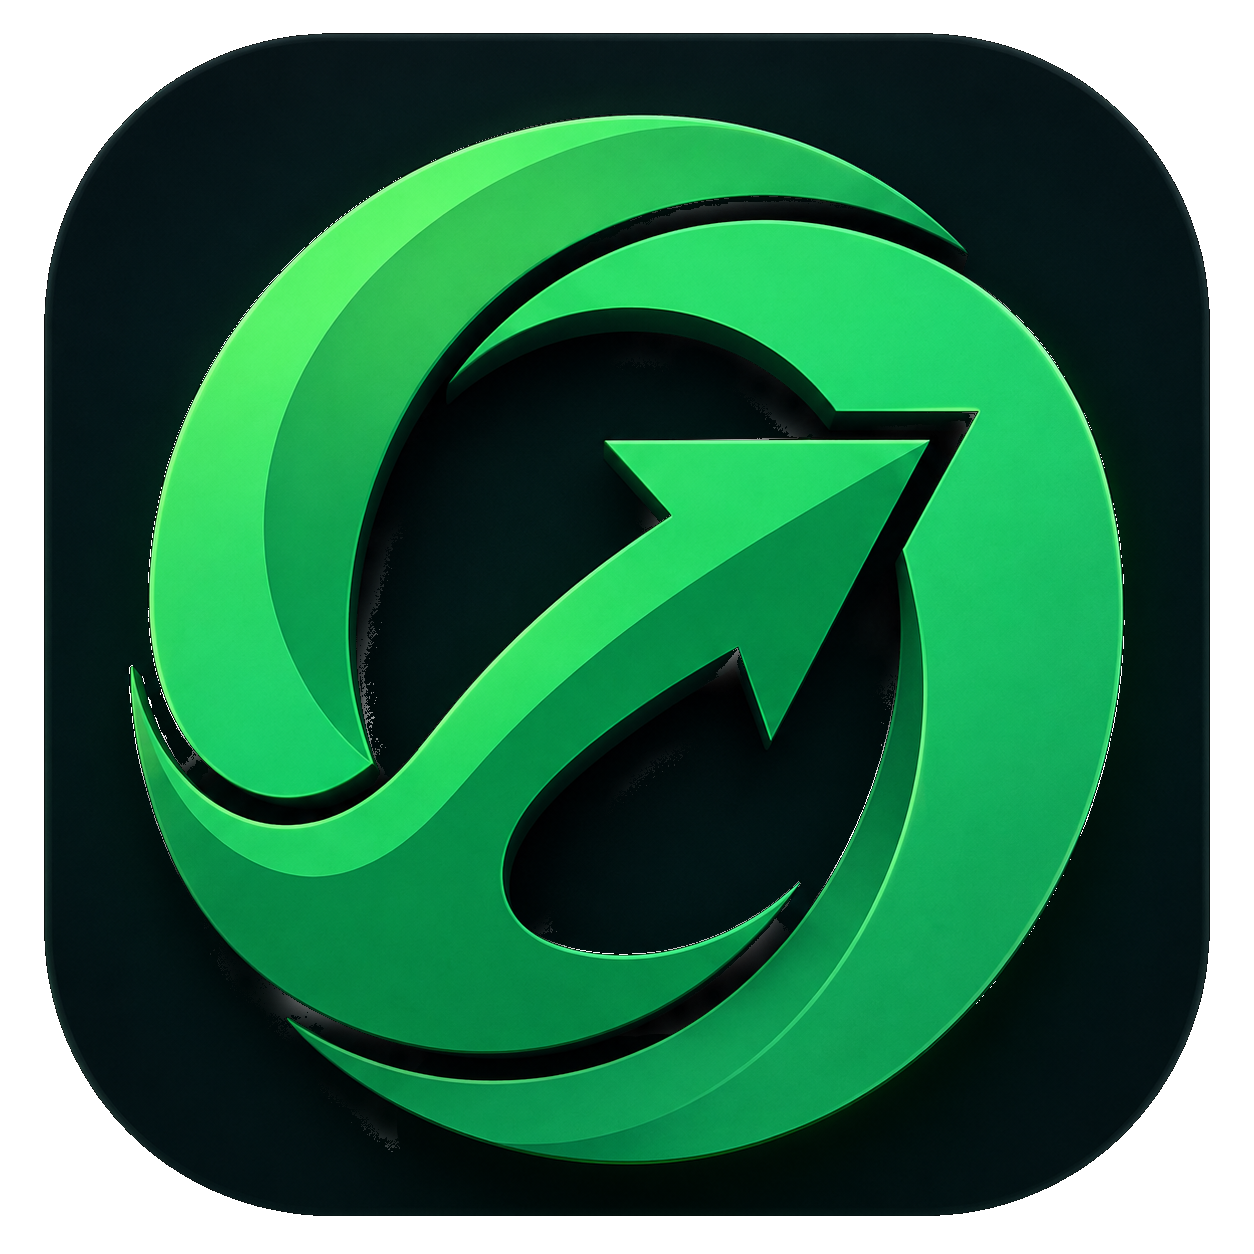
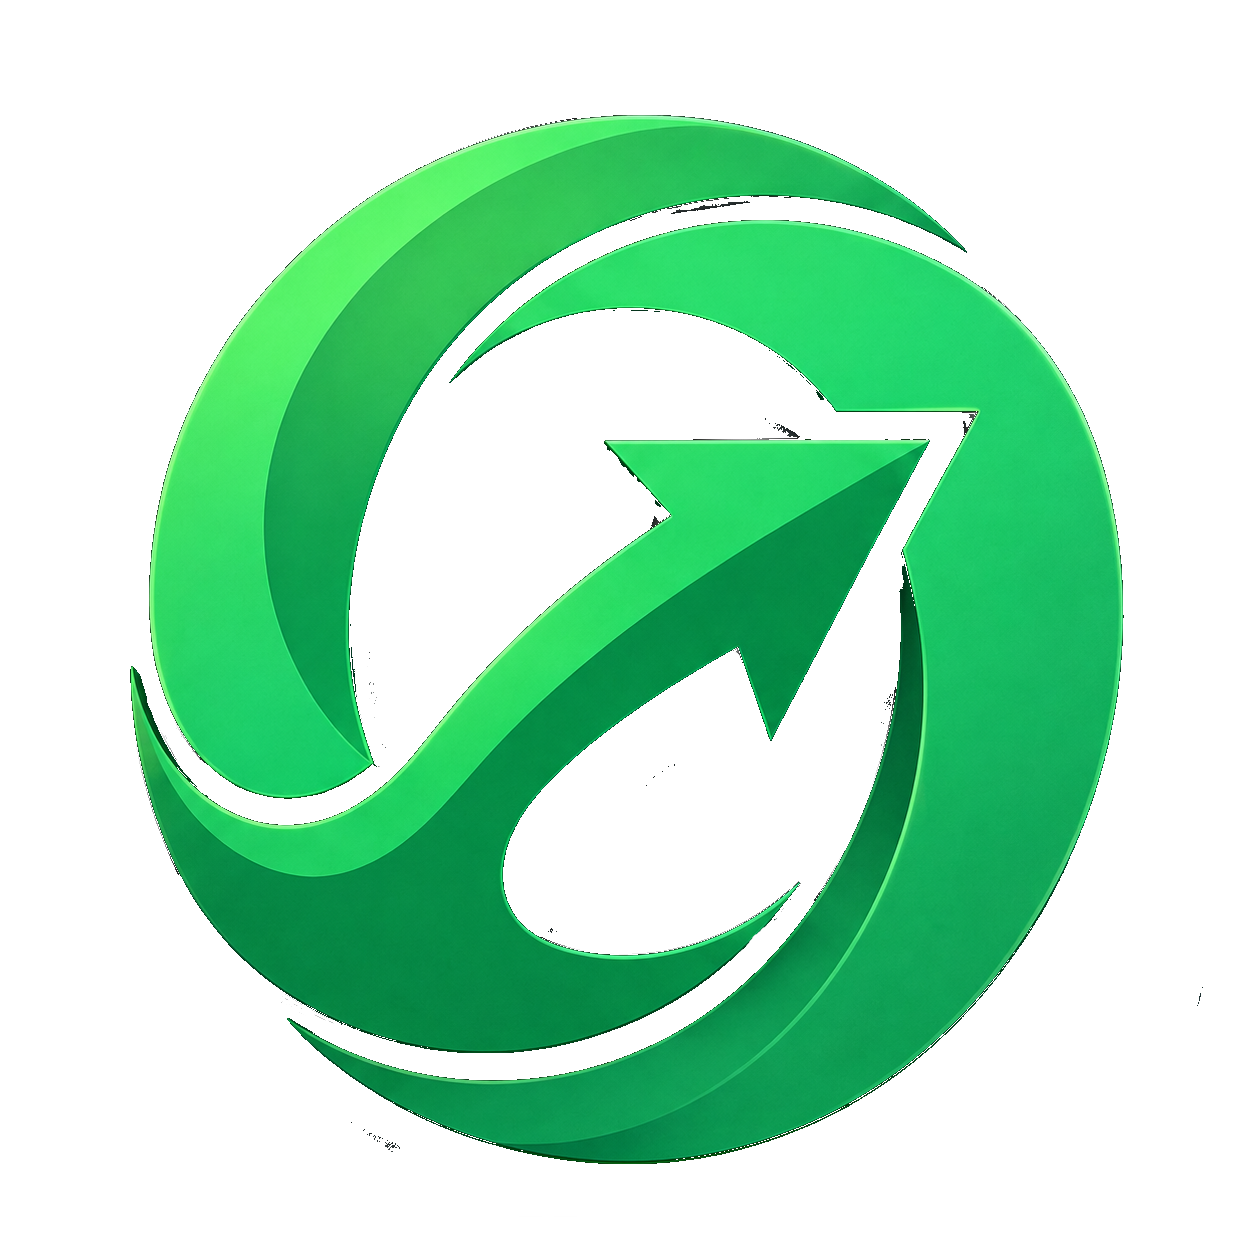
Release v7.7.00 stable with uninstaller theme support, gotTheLock crash fix, and correct email target

diff --git a/uninstaller/style.css b/uninstaller/style.css
@@ -195,3 +195,54 @@ textarea:focus {
     from { opacity: 0; transform: translateY(20px); filter: blur(10px); }
     to { opacity: 1; transform: translateY(0); filter: blur(0); }
 }
+
+/* Light Theme support */
+body[data-theme="light"] {
+    background: #f4f4f7;
+    background: radial-gradient(circle at 50% 50%, #ffffff 0%, #f4f4f7 100%);
+    color: #1a1a1a;
+}
+body[data-theme="light"] .survey-window {
+    background: #ffffff;
+    border-color: rgba(0, 0, 0, 0.08);
+    box-shadow: 0 10px 30px rgba(0, 0, 0, 0.06);
+}
+body[data-theme="light"] .header h2 {
+    background: linear-gradient(135deg, #111111 0%, #444444 100%);
+    -webkit-background-clip: text;
+    -webkit-text-fill-color: transparent;
+}
+body[data-theme="light"] .header p {
+    color: #555555;
+}
+body[data-theme="light"] .card-inner {
+    background: rgba(0, 0, 0, 0.02);
+    border-color: rgba(0, 0, 0, 0.05);
+    color: #555555;
+}
+body[data-theme="light"] .reason-card:hover .card-inner {
+    border-color: rgba(0, 0, 0, 0.15);
+    background: rgba(0, 0, 0, 0.04);
+}
+body[data-theme="light"] .reason-card input:checked + .card-inner {
+    background: var(--accent-color);
+    border-color: var(--accent-color);
+    color: #fff;
+}
+body[data-theme="light"] textarea {
+    background: rgba(0, 0, 0, 0.02);
+    border-color: rgba(0, 0, 0, 0.08);
+    color: #111111;
+}
+body[data-theme="light"] .btn-secondary {
+    background: rgba(0, 0, 0, 0.02);
+    color: #555555;
+    border-color: rgba(0, 0, 0, 0.08);
+}
+body[data-theme="light"] .btn-secondary:hover {
+    color: #111111;
+    border-color: rgba(0, 0, 0, 0.15);
+}
+body[data-theme="light"] .footer {
+    border-top-color: rgba(0, 0, 0, 0.08);
+}

diff --git a/uninstaller/script.js b/uninstaller/script.js
@@ -1,6 +1,23 @@
 // Using electronAPI from preload.js
 const ipc = window.electronAPI;
 
+function hexToRgb(hex) {
+    let r = 9, g = 240, b = 160;
+    if (hex && hex.startsWith('#')) {
+        const h = hex.substring(1);
+        if (h.length === 3) {
+            r = parseInt(h[0] + h[0], 16);
+            g = parseInt(h[1] + h[1], 16);
+            b = parseInt(h[2] + h[2], 16);
+        } else if (h.length === 6) {
+            r = parseInt(h.substring(0, 2), 16);
+            g = parseInt(h.substring(2, 4), 16);
+            b = parseInt(h.substring(4, 6), 16);
+        }
+    }
+    return `${r}, ${g}, ${b}`;
+}
+
 document.addEventListener('DOMContentLoaded', () => {
     const submitBtn = document.getElementById('submitBtn');
     const skipBtn = document.getElementById('skipBtn');
@@ -8,6 +25,20 @@ document.addEventListener('DOMContentLoaded', () => {
     const reasonInputs = document.querySelectorAll('input[name="reason"]');
 
     let selectedReason = null;
+
+    // Load Settings for Theme and Accent Syncing
+    if (ipc && ipc.getSettings) {
+        ipc.getSettings().then(s => {
+            if (s) {
+                const theme = s.themeMode || 'dark';
+                document.body.setAttribute('data-theme', theme);
+                const accent = s.accentColor || '#09f0a0';
+                document.documentElement.style.setProperty('--accent-color', accent);
+                document.documentElement.style.setProperty('--accent-glow', `rgba(${hexToRgb(accent)}, 0.25)`);
+                document.documentElement.style.setProperty('--accent-hover', accent);
+            }
+        }).catch(err => console.error("Error loading theme settings in uninstaller:", err));
+    }
 
     reasonInputs.forEach(input => {
         input.addEventListener('change', () => {
@@ -22,7 +53,7 @@ document.addEventListener('DOMContentLoaded', () => {
         submitBtn.innerHTML = "Processing...";
         
         const feedback = feedbackText.value || "No additional feedback.";
-        const email = "[email redacted]";
+        const email = "[email redacted]";
         const subject = encodeURIComponent("Ocal Browser - Uninstall Feedback");
         const body = encodeURIComponent(`Reason: ${selectedReason}\n\nFeedback: ${feedback}\n\nSent via Ocal Uninstaller`);
         

diff --git a/main.js b/main.js
@@ -108,6 +108,7 @@ if (process.argv.includes('--install') || process.argv.includes('--squirrel-inst
 
 if (!gotTheLock) {
     app.quit();
+    process.exit(0);
 } else {
     app.on('second-instance', (event, commandLine, workingDirectory) => {
         if (mainWindow) {
@@ -829,7 +830,7 @@ function createMainWindow() {
         height: 900,
         minWidth: 1000,
         minHeight: 700,
-        title: 'Ocal',
+        title: 'Ocal Browser',
         icon: path.join(__dirname, 'icon.ico'),
         frame: false,
         transparent: false,
@@ -913,10 +914,8 @@ function createMainWindow() {
         // Always open a tab on startup
         if (views.length === 0) {
             const startupUrl = getArgumentURL(process.argv);
-            if (userSettings.lastVersion !== '7.1.00') {
-                userSettings.lastVersion = '7.1.00';
-                saveSettings(userSettings);
-                createNewTab('ocal://whats-new');
+                if (userSettings.lastVersion !== '7.7.00') {
+                    userSettings.lastVersion = '7.7.00';
                 if (startupUrl) {
                     createNewTab(startupUrl);
                 }
@@ -2278,9 +2277,17 @@ function hideWebApp() {
     }
     webAppOpen = false;
     currentWebAppUrl = null;
-    if (webAppView && mainWindow) mainWindow.removeBrowserView(webAppView);
-    mainWindow.webContents.send('web-app-closed');
-    updateViewBounds();
+    if (webAppView && mainWindow && !mainWindow.isDestroyed()) {
+        if (mainWindow.getBrowserViews().includes(webAppView)) {
+            mainWindow.removeBrowserView(webAppView);
+        }
+    }
+    if (mainWindow && !mainWindow.isDestroyed() && mainWindow.webContents && !mainWindow.webContents.isDestroyed()) {
+        mainWindow.webContents.send('web-app-closed');
+    }
+    if (mainWindow && !mainWindow.isDestroyed()) {
+        updateViewBounds();
+    }
 }
 
 function showWebApp(url) {

diff --git a/forge.config.js b/forge.config.js
@@ -3,9 +3,17 @@ const { FuseV1Options, FuseVersion } = require('@electron/fuses');
 
 module.exports = {
   packagerConfig: {
+    appId: 'com.ocal.browser',
     name: 'Ocal Browser',
     asar: true,
-    icon: './icon.ico',
+    icon: './build/icon.ico',
+    win32metadata: {
+      CompanyName: 'Gaming Network Studio Media Group',
+      FileDescription: 'Ocal Browser',
+      ProductName: 'Ocal Browser',
+      InternalName: 'Ocal Browser',
+      OriginalFilename: 'Ocal Browser.exe'
+    },
     ignore: [
       /^\/out($|\/)/,
       /^\/dist-inno($|\/)/,

diff --git a/whats-new.html b/whats-new.html
@@ -776,7 +776,7 @@
     <!-- ═══ HERO ═══ -->
     <section class="hero">
         <div class="version-pill">
-            <span class="pulse"></span> Version 7.6.13
+            <span class="pulse"></span> Version 7.7.00
         </div>
         <h1 class="hero-title">Get to know Ocal's features</h1>
         <p class="hero-desc">
@@ -830,7 +830,7 @@
         <div class="section-header">
             <h2 class="section-title" id="dir-title">All Features</h2>
             <p class="section-subtitle" id="dir-subtitle">Showing all recent improvements and team contributions in
-                v7.1.00.</p>
+                v7.7.00.</p>
         </div>
 
         <div class="grid" id="directory-grid">
@@ -1167,7 +1167,7 @@
 
             if (category === 'all') {
                 titleEl.textContent = 'All Features';
-                subtitleEl.textContent = 'Showing all recent improvements and layouts in v7.6.13.';
+                subtitleEl.textContent = 'Showing all recent improvements and layouts in v7.7.00.';
             } else if (category === 'multitasking') {
                 titleEl.textContent = 'Multitasking Features';
                 subtitleEl.textContent = 'Browse side-by-side workspace screens natively.';
@@ -1179,7 +1179,7 @@
                 subtitleEl.textContent = 'Aesthetic styles matching Ocal Shield card patterns.';
             } else if (category === 'contributors') {
                 titleEl.textContent = 'Key Contributors';
-                subtitleEl.textContent = 'Meet the engineers and designers who built Ocal Browser v7.6.13.';
+                subtitleEl.textContent = 'Meet the engineers and designers who built Ocal Browser v7.7.00.';
             }
 
             renderGrid(category);

diff --git a/settings.html b/settings.html
@@ -1506,7 +1506,7 @@
                         <div class="brand-details">
                             <h3 class="brand-name">Ocal Browser</h3>
                             <div class="brand-version-wrap">
-                                <span class="brand-version" id="current-version-display">Version 7.1.00</span>
+                                <span class="brand-version" id="current-version-display">Version 7.7.00</span>
                                 <span class="brand-build-type">Stable Build (64-bit)</span>
                                 <span id="about-build-line" class="brand-build-line">Production Build</span>
                             </div>